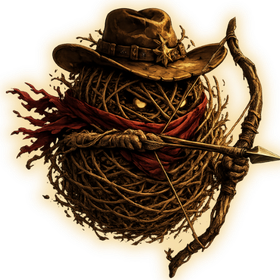
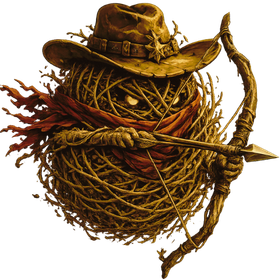
Updated assets and better level 7 character orientation

diff --git a/src/levels/07-sand-dune-maze/DuneMazeScene.ts b/src/levels/07-sand-dune-maze/DuneMazeScene.ts
@@ -53,6 +53,7 @@ export class DuneMazeScene extends Phaser.Scene {
   private lastQuicksandExitAt = 0;
   private idleSince = 0;
   private lastBreadcrumbAt = 0;
+  private facingLeft = false;
 
   // Touch: the player accelerates toward this world point while held.
   private touchTarget: TouchTarget | null = null;
@@ -133,6 +134,10 @@ export class DuneMazeScene extends Phaser.Scene {
     const intent = this.readIntent();
     const accel = CFG.playerAccel;
     const body = this.player.body as Phaser.Physics.Arcade.Body;
+    if (intent.x !== 0) {
+      this.facingLeft = intent.x < 0;
+      this.player.setFlipX(this.facingLeft);
+    }
     if (intent.x !== 0 || intent.y !== 0) {
       body.setAcceleration(intent.x * accel, intent.y * accel);
       this.idleSince = 0;